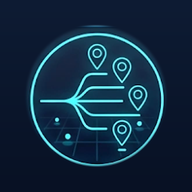
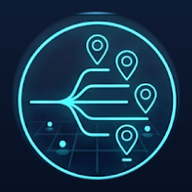
fix(pwa): re-crop emblem to 88% full size, set unique PWA id, and add no-cache manifest endpoint

Changed region(s): [[0.0625, 0.0625, 0.9375, 0.9375]]

diff --git a/web_app/wiring_report.html b/web_app/wiring_report.html
@@ -171,7 +171,7 @@
     <header>
       <div>
         <h1>⚡ GPON System Architecture & Wiring Portal</h1>
-        <div class="meta">Automated Codebase Wiring Report & Impact Analyzer | Last updated: 2026-10-12 22:37:37</div>
+        <div class="meta">Automated Codebase Wiring Report & Impact Analyzer | Last updated: 2026-10-12 22:49:16</div>
       </div>
       <div style="display:flex; align-items:center; gap:12px;">
         <span id="admin-user-tag" class="badge" style="background:#6366f1; color:white; font-size:0.8rem; padding:4px 10px;">Super Admin</span>
@@ -184,7 +184,7 @@
     <div class="container">
     <div class="stats-grid">
       <div class="stat-card">
-        <div class="val">6471</div>
+        <div class="val">6486</div>
         <div class="label">server.py Lines</div>
       </div>
       <div class="stat-card">
@@ -192,7 +192,7 @@
         <div class="label">app.js Lines</div>
       </div>
       <div class="stat-card">
-        <div class="val">39</div>
+        <div class="val">40</div>
         <div class="label">API Endpoints</div>
       </div>
       <div class="stat-card">
@@ -498,8 +498,15 @@
               </tr>
               <tr>
                 <td><span class="badge badge-get">GET</span></td>
+                <td><strong class="code-pill">/manifest.json</strong></td>
+                <td><span class="code-pill">L3207-L3219</span></td>
+                <td><code>get_pwa_manifest()</code></td>
+                <td><span class='badge' style='background:#f1f5f9;color:#64748b;'>Public/Session</span></td>
+              </tr>
+              <tr>
+                <td><span class="badge badge-get">GET</span></td>
                 <td><strong class="code-pill">/admin</strong></td>
-                <td><span class="code-pill">L3208-L6463</span></td>
+                <td><span class="code-pill">L3223-L6478</span></td>
                 <td><code>admin_dashboard()</code></td>
                 <td><span class='badge' style='background:#f1f5f9;color:#64748b;'>Public/Session</span></td>
               </tr>

diff --git a/web_app/index.html b/web_app/index.html
@@ -6,7 +6,7 @@
   <title>Network Survey</title>
   
   <!-- PWA Manifest & Meta -->
-  <link rel="manifest" href="manifest.json">
+  <link rel="manifest" href="manifest.json?v=72">
   <meta name="theme-color" content="#ffffff">
   <meta name="apple-mobile-web-app-capable" content="yes">
   <meta name="apple-mobile-web-app-status-bar-style" content="default">

diff --git a/web_app/sw.js b/web_app/sw.js
@@ -1,4 +1,4 @@
-const CACHE_NAME = 'gpon-survey-v70';
+const CACHE_NAME = 'gpon-survey-v72';
 const ASSETS_TO_CACHE = [
   './',
   './index.html',

diff --git a/server.py b/server.py
@@ -3203,6 +3203,21 @@ def get_wiring_report():
         return FileResponse(report_path, media_type="text/html", headers={"Cache-Control": "no-cache"})
     raise HTTPException(status_code=404, detail="Wiring report not found. Run scripts/generate_wiring_report.py first.")
 
+@app.get("/manifest.json")
+def get_pwa_manifest():
+    manifest_path = os.path.join(WEB_APP_DIR, "manifest.json")
+    if os.path.exists(manifest_path):
+        return FileResponse(
+            manifest_path,
+            media_type="application/manifest+json",
+            headers={
+                "Cache-Control": "no-cache, no-store, must-revalidate",
+                "Pragma": "no-cache",
+                "Expires": "0"
+            }
+        )
+    raise HTTPException(status_code=404, detail="Manifest not found")
+
 # Central Office Web Dashboard
 @app.get("/admin", response_class=HTMLResponse)
 def admin_dashboard(response: Response):

diff --git a/docs/wiring/02_SERVER_PY_LINE_BY_LINE_WIRING.md b/docs/wiring/02_SERVER_PY_LINE_BY_LINE_WIRING.md
@@ -1,7 +1,7 @@
 # Server.py Line-by-Line & Route Wiring Dissection
-*Generated automatically on: 2026-10-12 22:37:37*
+*Generated automatically on: 2026-10-12 22:49:16*
 
-Total lines in `server.py`: **6471** LOC
+Total lines in `server.py`: **6486** LOC
 
 ## 1. Subsystem Functional Blocks (Line-by-Line Breakdown)
 The 6,229 lines of `server.py` are partitioned into 16 mission-critical functional blocks:
@@ -67,7 +67,8 @@ The 6,229 lines of `server.py` are partitioned into 16 mission-critical function
 | `GET` | `/api/data-folders-summary` | L3101-L3183 | `get_data_folders_summary()` | `require_management_auth` | Returns structured summary of region and center survey records with dynamic in-memory exports. |
 | `POST` | `/api/resync-data-folders` | L3186-L3194 | `resync_data_folders()` | `require_admin_auth` | Optimizes server storage and recounts SQLite records. |
 | `GET` | `/docs/wiring` | L3199-L3204 | `get_wiring_report()` | `Public / Session` | Serves the interactive architecture wiring and blast-radius report. |
-| `GET` | `/admin` | L3208-L6463 | `admin_dashboard()` | `Public / Session` | REST Endpoint |
+| `GET` | `/manifest.json` | L3207-L3219 | `get_pwa_manifest()` | `Public / Session` | REST Endpoint |
+| `GET` | `/admin` | L3223-L6478 | `admin_dashboard()` | `Public / Session` | REST Endpoint |
 
 ## 3. SQLite Database Query Registry
 | Line | Target Table | SQL Operation Snippet |

diff --git a/docs/wiring/01_SYSTEM_TOPOLOGY_AND_DATA_FLOW.md b/docs/wiring/01_SYSTEM_TOPOLOGY_AND_DATA_FLOW.md
@@ -1,5 +1,5 @@
 # System Topology & End-to-End Data Flow Specification
-*Generated automatically on: 2026-10-12 22:37:37*
+*Generated automatically on: 2026-10-12 22:49:16*
 
 ## 1. Executive Architectural Blueprint
 The GPON Network Mapping platform is an enterprise-grade, offline-first field survey and GIS network documentation system. It connects field mobile Progressive Web Apps (PWA) with a 24/7 central Ubuntu/Windows server running FastAPI and SQLite.

diff --git a/docs/wiring/05_BLAST_RADIUS_AND_CHANGE_IMPACT_MATRIX.md b/docs/wiring/05_BLAST_RADIUS_AND_CHANGE_IMPACT_MATRIX.md
@@ -1,5 +1,5 @@
 # Blast Radius & Change Impact Matrix
-*Generated automatically on: 2026-10-12 22:37:37*
+*Generated automatically on: 2026-10-12 22:49:16*
 
 This document provides a comprehensive causal analysis answering:
 **"What happens in the system when any line or component in the codebase changes?"**

diff --git a/docs/wiring/SUMMARY_INDEX.md b/docs/wiring/SUMMARY_INDEX.md
@@ -1,5 +1,5 @@
 # Master Wiring Specification & Architectural Index
-*Generated automatically on: 2026-10-12 22:37:37*
+*Generated automatically on: 2026-10-12 22:49:16*
 
 Welcome to the comprehensive, living architectural wiring manual for the **GPON Network Mapping & Field Survey System**.
 

diff --git a/docs/wiring/06_TROUBLESHOOTING_AND_FAULT_TREES.md b/docs/wiring/06_TROUBLESHOOTING_AND_FAULT_TREES.md
@@ -1,5 +1,5 @@
 # Troubleshooting Runbook & Fault Tree Analysis
-*Generated automatically on: 2026-10-12 22:37:37*
+*Generated automatically on: 2026-10-12 22:49:16*
 
 ## 1. Fault Tree: Field Technician Cannot Sync
 ```mermaid

diff --git a/docs/wiring/04_DATABASE_SCHEMA_AND_PERSISTENCE.md b/docs/wiring/04_DATABASE_SCHEMA_AND_PERSISTENCE.md
@@ -1,5 +1,5 @@
 # Database Schema, Dual-Sync & Persistence Layer
-*Generated automatically on: 2026-10-12 22:37:37*
+*Generated automatically on: 2026-10-12 22:49:16*
 
 ## 1. SQLite Relational Schema (`gpon_survey_data.db`)
 

diff --git a/docs/wiring/03_APP_JS_FRONTEND_ENGINE_WIRING.md b/docs/wiring/03_APP_JS_FRONTEND_ENGINE_WIRING.md
@@ -1,5 +1,5 @@
 # Web App (app.js) Frontend Engine Wiring Dissection
-*Generated automatically on: 2026-10-12 22:37:37*
+*Generated automatically on: 2026-10-12 22:49:16*
 
 Total lines in `web_app/app.js`: **4014** LOC
 
